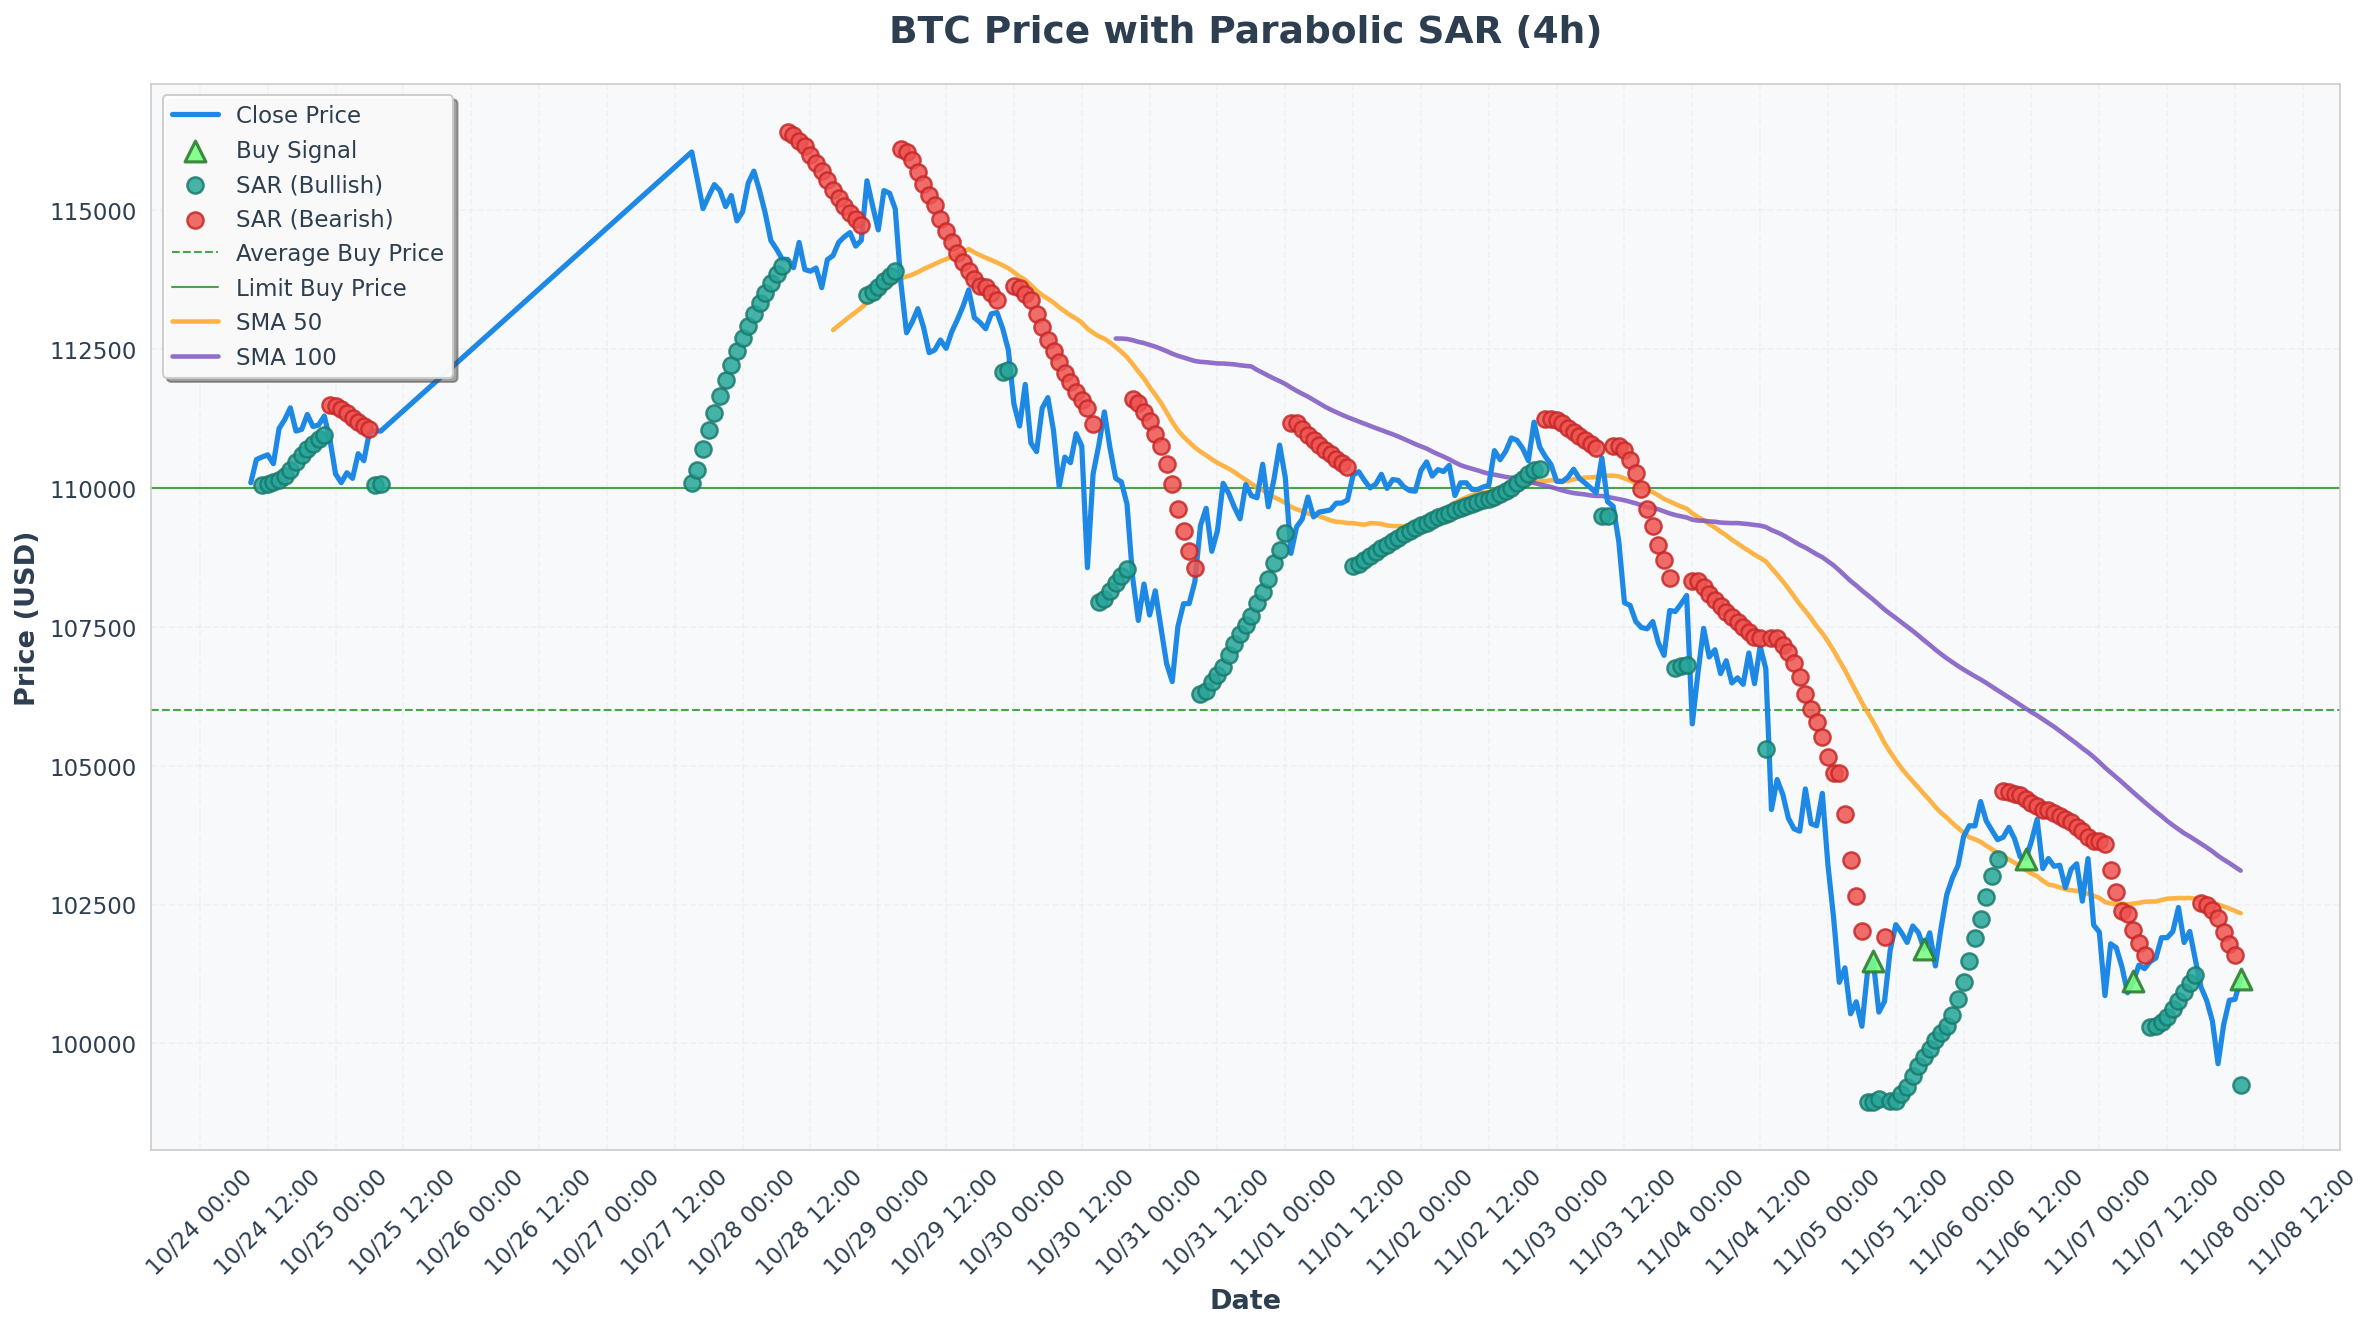
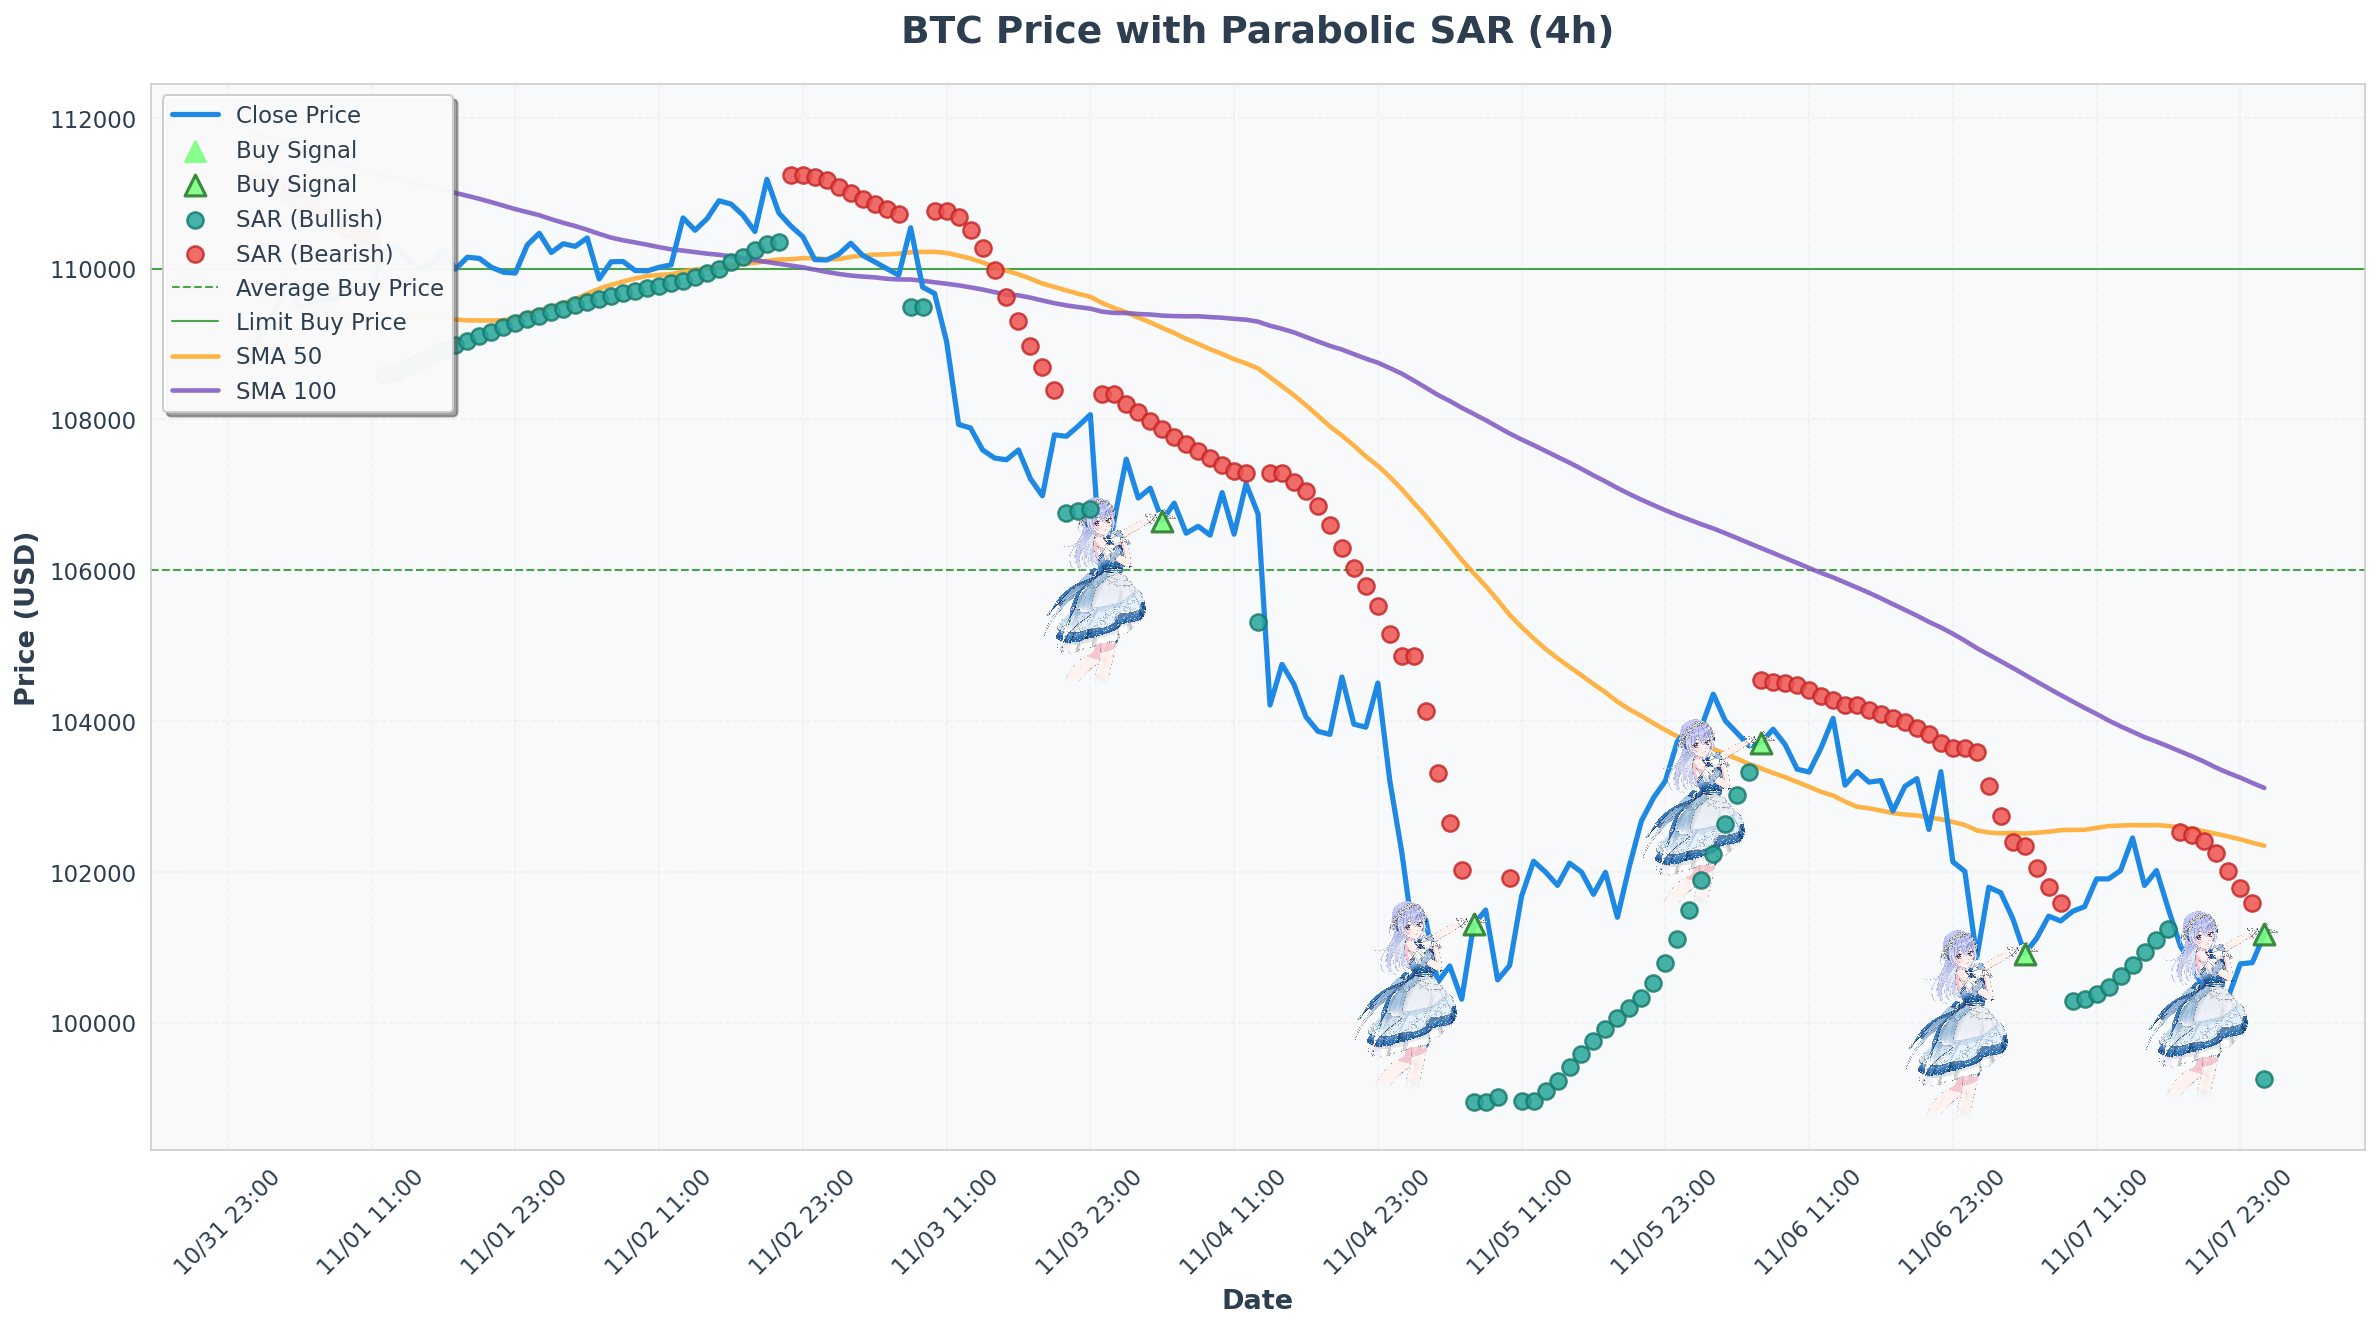
マーカー代わりに画像を使えるが一旦保留

diff --git a/src/crypto_spot_collector/scripts/test_crypto_detail.py b/src/crypto_spot_collector/scripts/test_crypto_detail.py
@@ -10,6 +10,7 @@ import pandas as pd
 import seaborn as sns
 from matplotlib import font_manager
 from matplotlib import pyplot as plt
+from matplotlib.offsetbox import AnnotationBbox, OffsetImage
 from PIL import Image
 from ta.trend import PSARIndicator
 
@@ -110,7 +111,7 @@ async def main() -> None:
 
     with TradeDataRepository() as repo:
         buy_trades: list[TradeData] = repo.get_closed_long_positions_date(
-            symbol="BTC",
+            symbol="XRP",
             start_date=startDate,
             end_date=endDate
         )
@@ -120,37 +121,10 @@ async def main() -> None:
 
         df = append_dates_with_nearest(df, "buy_date", buy_dates)
 
-    # buy_dates: list[datetime] = [
-    #     datetime(2025, 10, 26, 5, 10, 23),
-    #     datetime(2025, 10, 25, 7, 20, 48),
-    #     datetime(2025, 10, 25, 7, 12, 48),
-    # ]
-
-    # df = append_dates_with_nearest(df, "buy_date", buy_dates)
-
-    # buy_dates_df = pd.to_datetime(buy_dates)
-    # targets_df = pd.DataFrame({
-    #     "target_time": buy_dates_df,
-    #     "buy_date_to_set": buy_dates_df
-    # }).sort_values(by="target_time")
-
-    # df_timestamps = df[["timestamp"]].reset_index().sort_values(by="timestamp")
-    # merged_df = pd.merge_asof(
-    #     targets_df,
-    #     df_timestamps,
-    #     left_on="target_time",
-    #     right_on="timestamp",
-    #     direction="nearest",
-    # )
-    # df['buy_date'] = pd.NaT
-    # df.loc[merged_df["index"], "buy_date"] = merged_df["buy_date_to_set"].values
-
-    # # dfを過去14日分に制限
-    # latest_date = df['timestamp'].max()
-    # start_display_date = latest_date - timedelta(days=7)
-    # df = df[df['timestamp'] >= start_display_date]
-
-    # print(df)
+    # 2週間分に制限
+    latest_date = df['timestamp'].max()
+    start_display_date = latest_date - timedelta(days=7)
+    df = df[df['timestamp'] >= start_display_date]
 
     # データからグラフ作成
     fig, ax1 = plt.subplots(1, 1, figsize=(16, 9))
@@ -165,10 +139,49 @@ async def main() -> None:
         zorder=3
     )
 
-    # ロングした日時をグラフに反映
+    # ロングした日時をグラフに反映（画像マーカーを使用）
+    buy_signal_data = df.loc[df['buy_date'].notna()]
+    # if len(buy_signal_data) > 0:
+    #     # 使用する画像ファイルのパス（この例では購入アイコンのような画像を想定）
+    #     # 例: アイコンフォントやPNG画像を配置してください
+    #     image_path = Path(__file__).parent / "icon" / "hana_marker.webp"
+
+    #     # 画像が存在する場合は画像マーカーを使用、そうでなければ通常のマーカー
+    #     if image_path.exists():
+    #         # 画像を読み込み
+    #         img = plt.imread(image_path)
+
+    #         # 画像の横幅を基準にズーム値を自動調整
+    #         target_width_pixels = 100  # 目標の横幅（ピクセル）
+    #         img_width = img.shape[1]  # 画像の実際の横幅
+    #         zoom = target_width_pixels / img_width
+
+    #         imagebox = OffsetImage(img, zoom=zoom)  # 自動調整されたzoomを使用
+
+    #         for _, row in buy_signal_data.iterrows():
+    #             # 画像の位置調整（オフセット）
+    #             offset_x = -30  # X方向のオフセット（時間軸方向）
+    #             offset_y = -20  # Y方向のオフセット（価格軸方向）
+
+    #             ab = AnnotationBbox(
+    #                 imagebox,
+    #                 (row['timestamp'], row['close']),
+    #                 xybox=(offset_x, offset_y),  # オフセット指定
+    #                 xycoords='data',  # 基準座標系
+    #                 boxcoords='offset points',  # オフセットの単位（ポイント）
+    #                 frameon=False,
+    #                 pad=0
+    #             )
+    #             ax1.add_artist(ab)
+
+    #         # 凡例用のダミープロット（画像は凡例に表示されないため）
+    #         ax1.scatter([], [], color="#7CFF82", s=100, label='Buy Signal',
+    #                     marker='^', alpha=0.9)
+
+    # 通常のマーカーを使用
     ax1.scatter(
-        df.loc[df['buy_date'].notna(), 'timestamp'],
-        df.loc[df['buy_date'].notna(), 'close'],
+        buy_signal_data['timestamp'],
+        buy_signal_data['close'],
         color="#7CFF82",  # 落ち着いたグリーン
         s=100,
         label='Buy Signal',
@@ -178,6 +191,7 @@ async def main() -> None:
         linewidths=1.5,
         zorder=5
     )
+    # print(f"画像が見つかりません: {image_path}. 通常のマーカーを使用します。")
 
     # SARをドットで表示（トレンド転換で色を変更）
     sar_up_mask = ~pd.isna(df['sar_up'])
